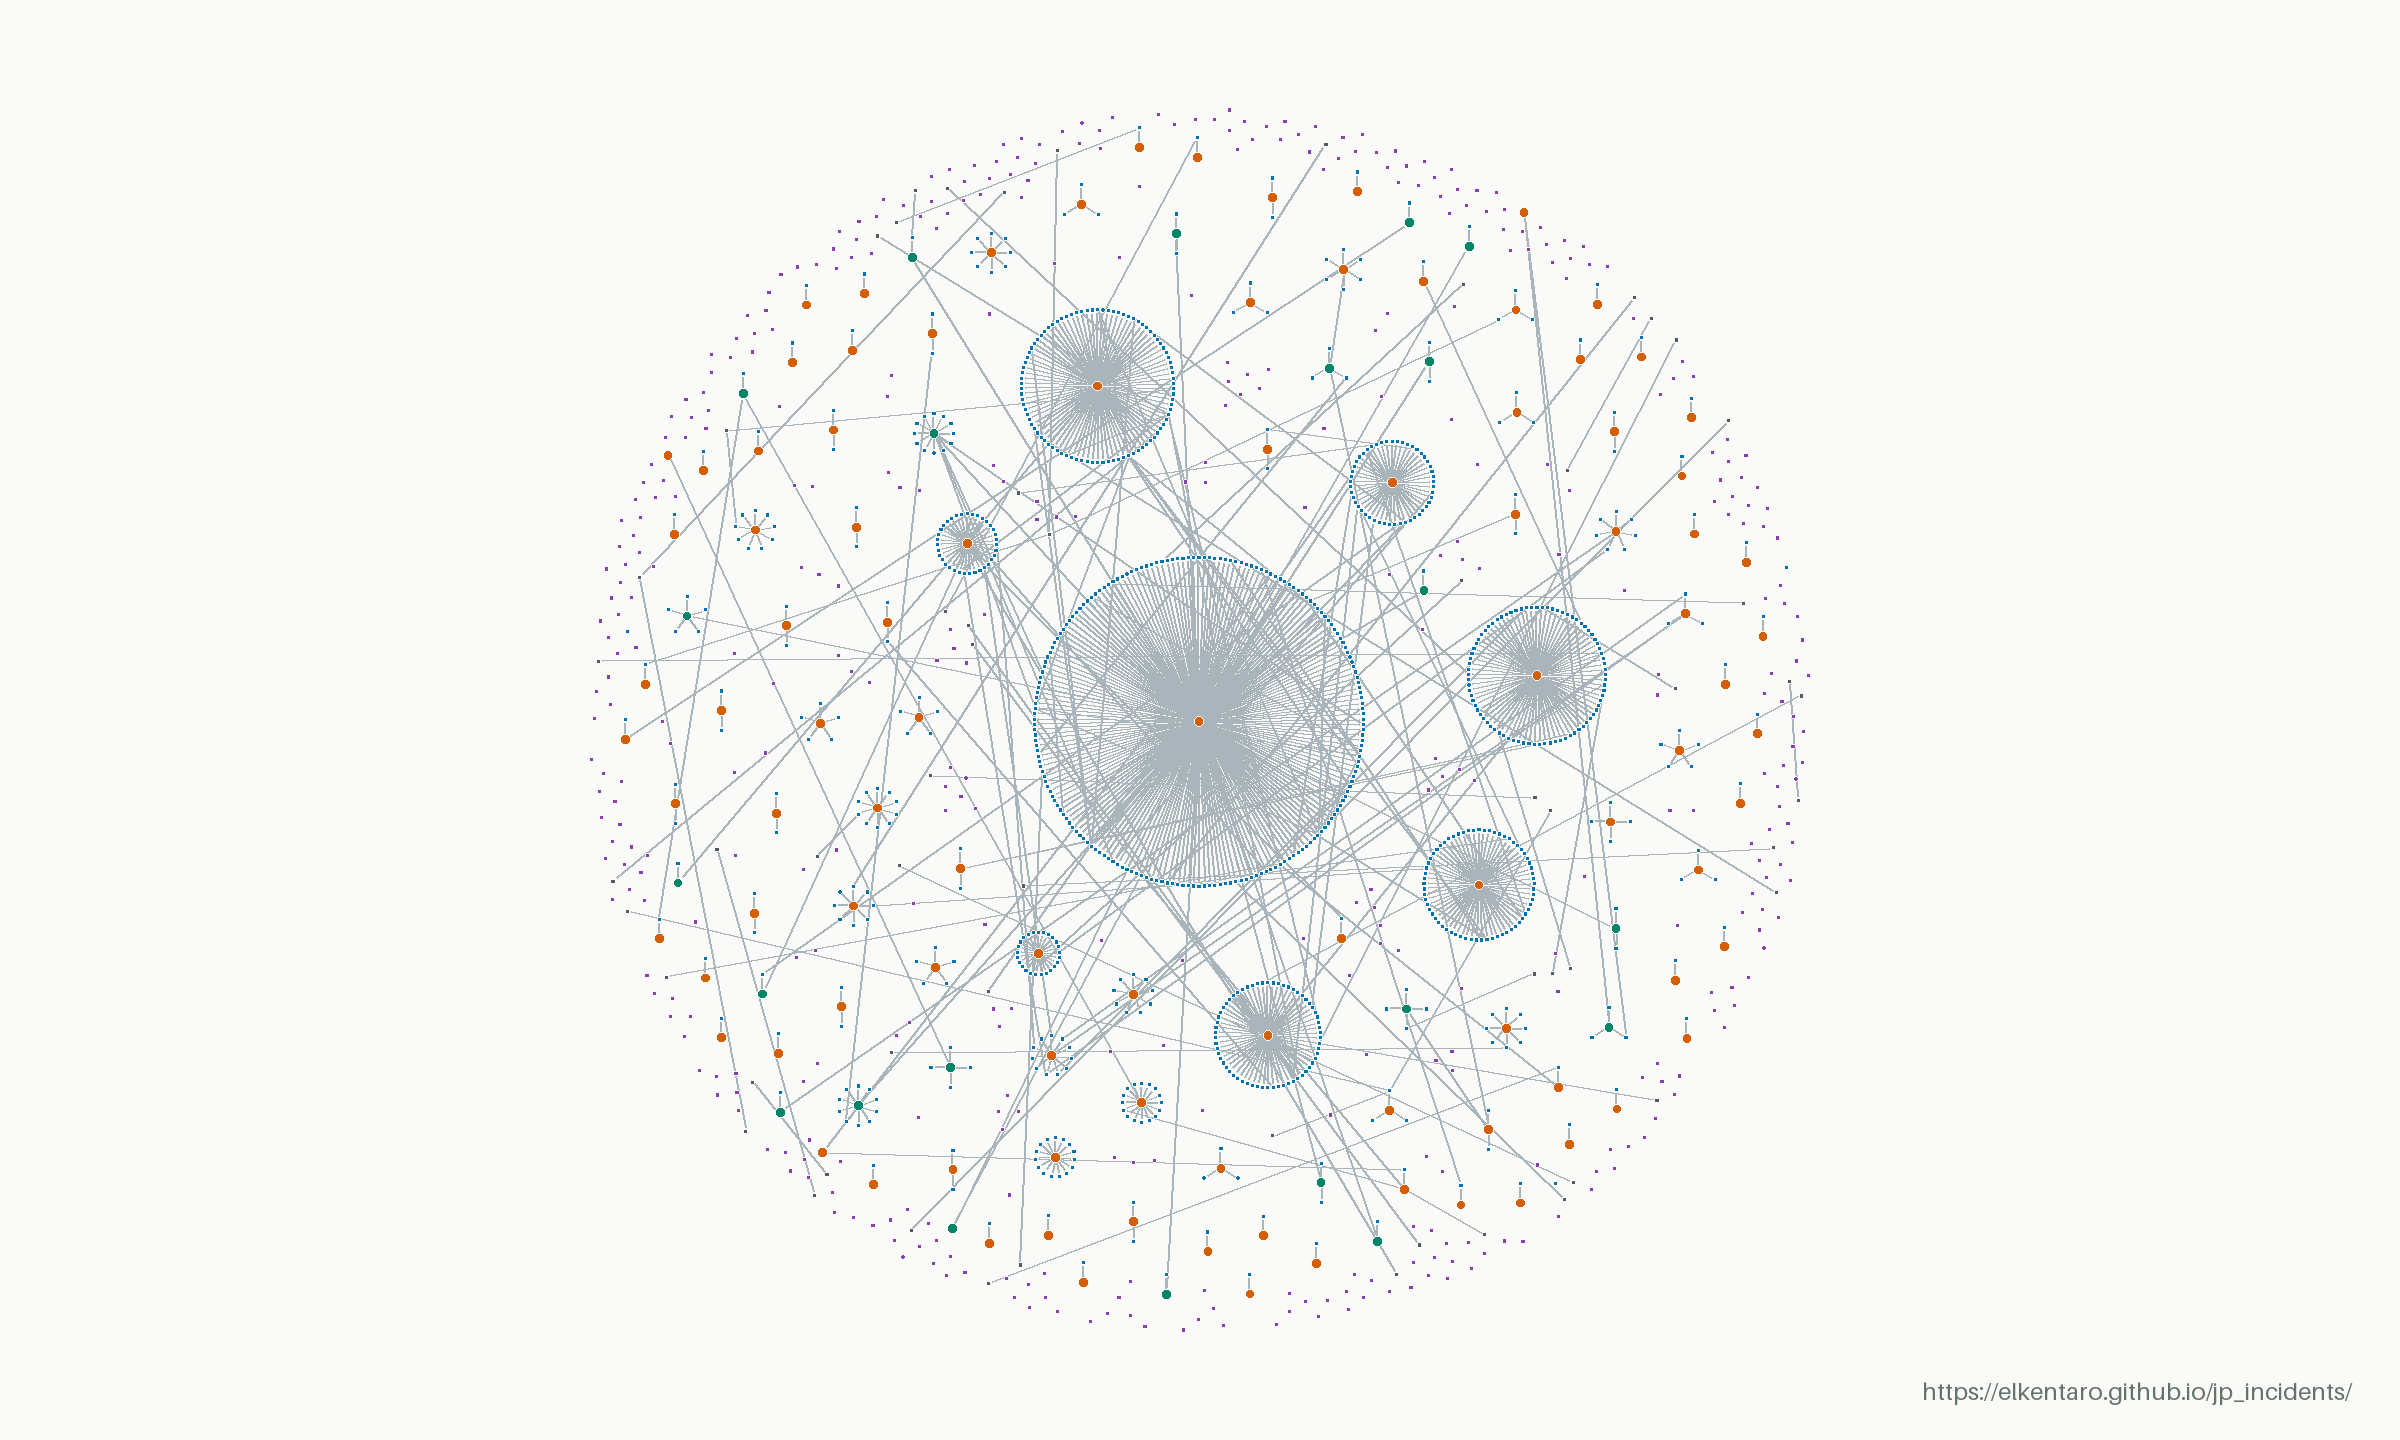
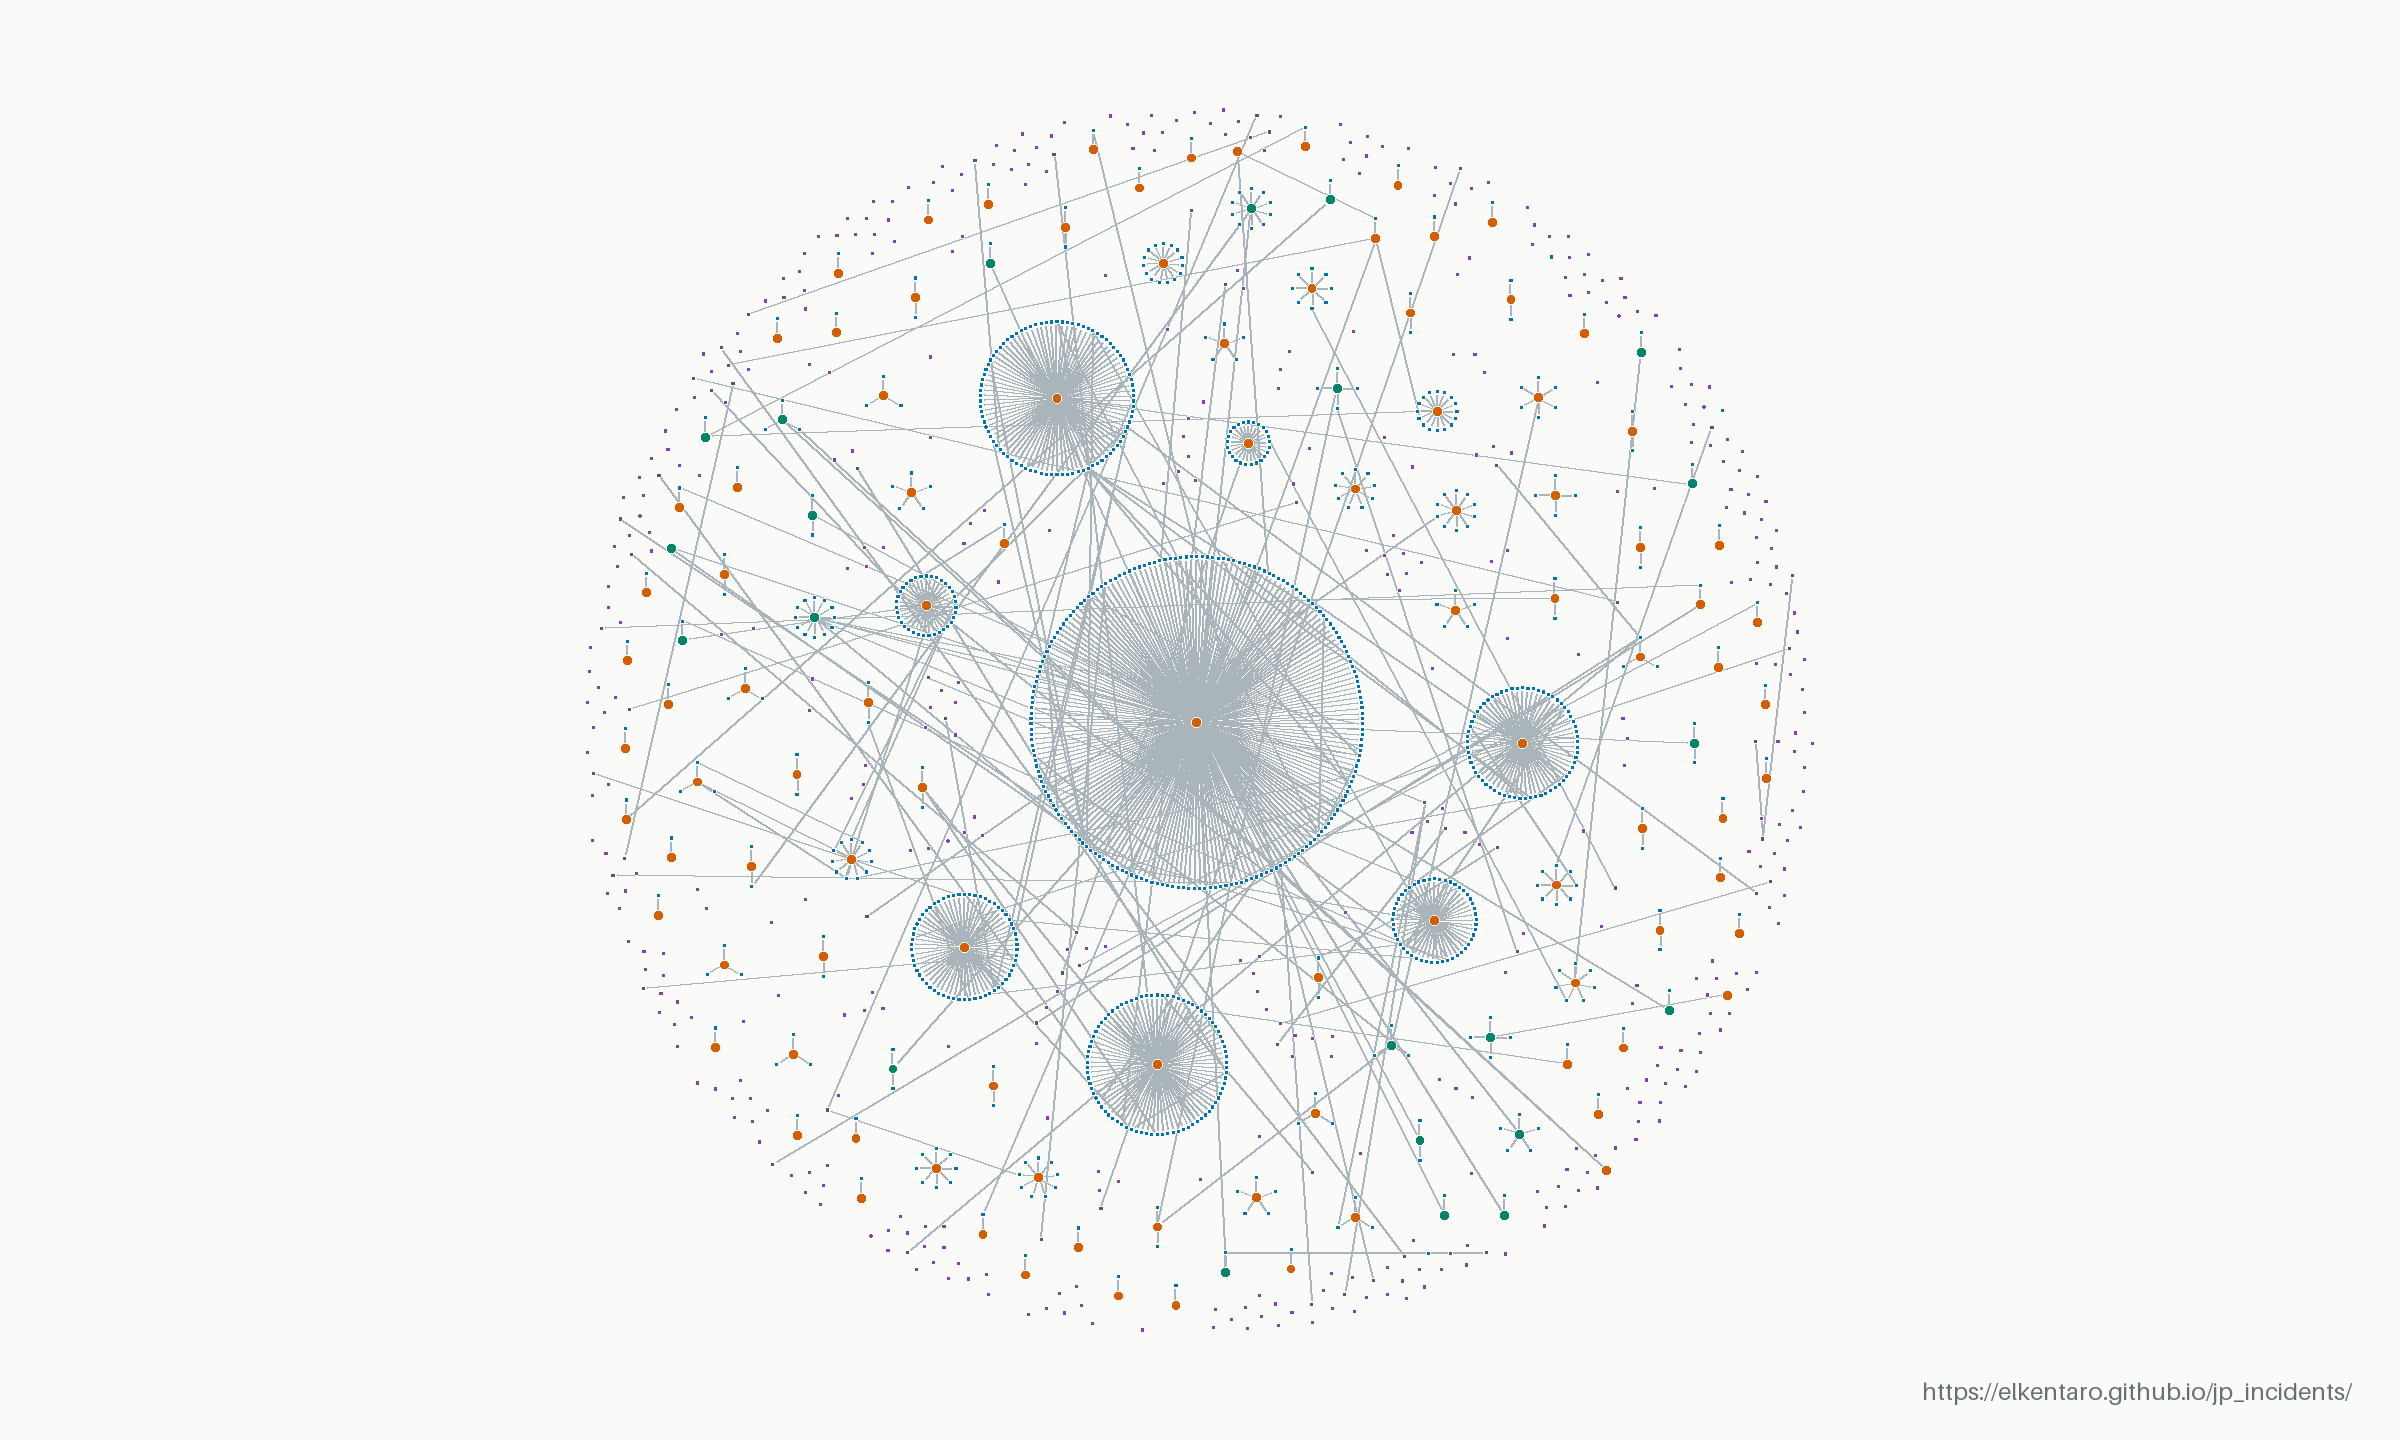
Update incident data (2026-11-20 06:18 UTC)

diff --git a/linkage.html b/linkage.html
@@ -32,17 +32,17 @@
     </section>
     <section class="direct-summary" aria-labelledby="direct-title">
       <dl class="direct-stats">
-        <div class="direct-total"><dt id="direct-title" data-copy="direct">Direct incidents</dt><dd id="direct-count">585</dd></div>
+        <div class="direct-total"><dt id="direct-title" data-copy="direct">Direct incidents</dt><dd id="direct-count">586</dd></div>
         <div><dt data-copy="directUpstream">Upstream incidents</dt><dd id="upstream-count">99</dd></div>
-        <div><dt data-copy="directStandalone">Standalone incidents</dt><dd id="standalone-count">486</dd></div>
+        <div><dt data-copy="directStandalone">Standalone incidents</dt><dd id="standalone-count">487</dd></div>
       </dl>
-      <p class="direct-excluded"><strong id="downstream-count">922</strong> <span data-copy="directExcluded">downstream records excluded, including incidents with both roles.</span></p>
+      <p class="direct-excluded"><strong id="downstream-count">924</strong> <span data-copy="directExcluded">downstream records excluded, including incidents with both roles.</span></p>
       <p class="direct-definition" data-copy="directDefinition">Direct incidents = upstream + standalone, based on recorded causal links. Standalone incidents have no upstream or downstream causal links, but may have other links, such as separate events at the same organization.</p>
     </section>
     <dl class="map-stats">
-      <div><dt data-copy="total">Incidents in snapshot</dt><dd>1507</dd></div>
-      <div><dt data-copy="linked">With recorded connections</dt><dd>1076</dd></div>
-      <div><dt data-copy="links">Recorded connections</dt><dd>1042</dd></div>
+      <div><dt data-copy="total">Incidents in snapshot</dt><dd>1510</dd></div>
+      <div><dt data-copy="linked">With recorded connections</dt><dd>1078</dd></div>
+      <div><dt data-copy="links">Recorded connections</dt><dd>1045</dd></div>
       <div><dt data-copy="networks">Connected networks</dt><dd>81</dd></div>
     </dl>
     <figure class="map-figure">
@@ -50,13 +50,13 @@
         <img src="data/linkage-map.png" width="2400" height="1440" alt="Anonymized incident map. Orange upstream hubs connect to blue downstream incidents; purple unlinked incidents appear throughout the same map without connecting lines." data-copy-alt="alt">
       </div>
       <figcaption>
-        <div class="map-caption-meta"><span><span data-copy="updated">Last updated</span>: <time datetime="2026-11-20T05:17:21.641719+00:00">2026-11-20 05:17 UTC</time></span><a href="data/linkage-map.png" target="_blank" rel="noopener" data-copy="open">Open full-resolution image ↗</a></div>
+        <div class="map-caption-meta"><span><span data-copy="updated">Last updated</span>: <time datetime="2026-11-20T06:17:27.870594+00:00">2026-11-20 06:17 UTC</time></span><a href="data/linkage-map.png" target="_blank" rel="noopener" data-copy="open">Open full-resolution image ↗</a></div>
         <div class="map-key-section">
           <strong id="map-key-title" data-copy="key">Key</strong>
           <ul class="map-key" aria-labelledby="map-key-title">
             <li><span class="key-dot upstream" aria-hidden="true"></span><span data-copy="keyUpstream">Upstream</span></li>
             <li><span class="key-dot downstream" aria-hidden="true"></span><span data-copy="keyDownstream">Downstream</span></li>
-            <li><span class="key-dot standalone" aria-hidden="true"></span><span data-copy="keyStandalone">Unlinked</span><span>(431)</span></li>
+            <li><span class="key-dot standalone" aria-hidden="true"></span><span data-copy="keyStandalone">Unlinked</span><span>(432)</span></li>
             <li><span class="key-dot both" aria-hidden="true"></span><span data-copy="keyBoth">Both roles</span></li>
             <li><span class="key-dot related" aria-hidden="true"></span><span data-copy="keyRelated">Other related</span></li>
             <li><span class="key-line" aria-hidden="true"></span><span data-copy="keyRelationship">Recorded relationship</span></li>
@@ -69,7 +69,7 @@
       <section><h2 data-copy="readingTitle">Reading the map</h2><p data-copy="reading">Orange marks upstream incidents, blue downstream incidents, and purple unlinked incidents with no recorded connection. Teal marks incidents with both upstream and downstream roles; charcoal marks other related incidents. A missing connection does not establish that two incidents are unrelated.</p></section>
       <section><h2 data-copy="snapshotTitle">About this snapshot</h2><p data-copy="snapshot">The static image is refreshed when published incidents or relationships change, and at least every 24 hours during normal publication. Larger upstream clusters have extra spacing to keep their victims apart. Names, incident IDs, source links and incident dates are omitted; the connection pattern is retained. It is an overview of recorded relationships, not a complete map of cyber incidents in Japan.</p></section>
     </div>
-    <p class="map-source"><span data-copy="sourceUpdated">Source data updated</span>: <time datetime="2026-11-20T05:17:21+00:00">2026-11-20T05:17:21+00:00</time> · <a href="./" data-copy="browse">Browse the incident index</a></p>
+    <p class="map-source"><span data-copy="sourceUpdated">Source data updated</span>: <time datetime="2026-11-20T06:17:27+00:00">2026-11-20T06:17:27+00:00</time> · <a href="./" data-copy="browse">Browse the incident index</a></p>
   </main>
   <footer><div class="shell footer-inner"><p data-copy="footer">Public reports. Recorded relationships. An anonymized overview.</p><a href="./" data-copy="back">Back to incidents</a></div></footer>
   <script src="linkage.js?v=20261107-spacing" defer></script>
